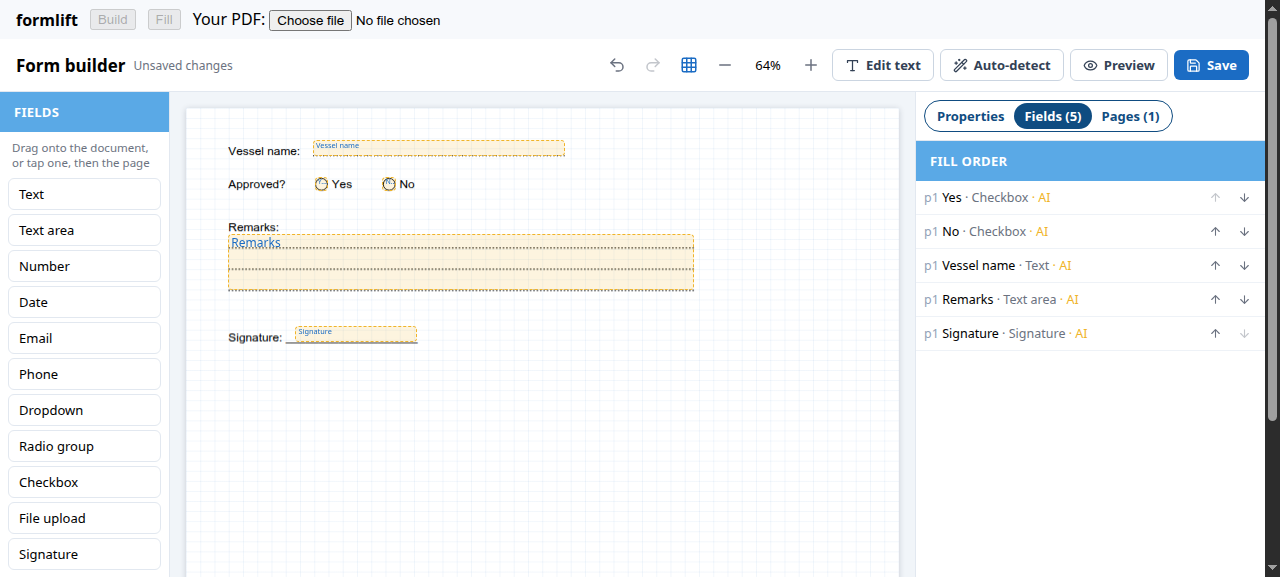
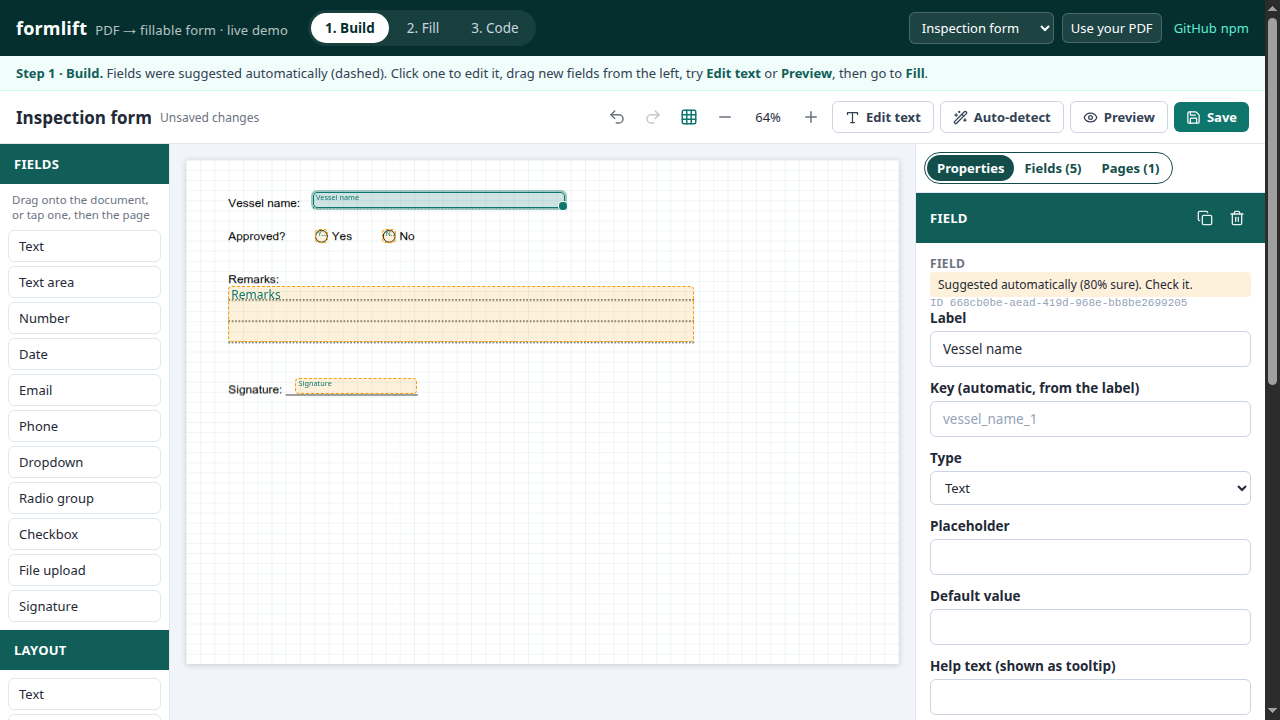
Teal theme, Trusted Publishing release, legacy TS types

diff --git a/example/demo.css b/example/demo.css
@@ -2,26 +2,26 @@
 html, body, #root { height: 100%; margin: 0; }
 body { font-family: system-ui, -apple-system, 'Segoe UI', Roboto, sans-serif; color: #1f2937; background: #f7f9fc; }
 .app { height: 100%; display: flex; flex-direction: column; }
-.bar { display: flex; flex-wrap: wrap; align-items: center; gap: 12px 20px; padding: 10px 16px; background: #0f2540; color: #fff; }
+.bar { display: flex; flex-wrap: wrap; align-items: center; gap: 12px 20px; padding: 10px 16px; background: #042f2e; color: #fff; }
 .brand { font-weight: 700; font-size: 18px; letter-spacing: .01em; }
 .brand small { font-weight: 400; opacity: .7; margin-left: 8px; font-size: 13px; }
 .steps { display: flex; gap: 4px; background: rgba(255,255,255,.08); padding: 3px; border-radius: 999px; }
 .steps button { border: 0; background: none; color: #cbd5e1; padding: 6px 14px; border-radius: 999px; font: inherit; font-size: 13.5px; cursor: pointer; }
-.steps button[aria-selected='true'] { background: #fff; color: #0f2540; font-weight: 600; }
+.steps button[aria-selected='true'] { background: #fff; color: #042f2e; font-weight: 600; }
 .steps button:disabled { opacity: .4; cursor: not-allowed; }
 .pick { display: flex; align-items: center; gap: 8px; font-size: 13px; margin-left: auto; }
 .pick select, .pick label { background: rgba(255,255,255,.1); color: #fff; border: 1px solid rgba(255,255,255,.2); border-radius: 6px; padding: 5px 8px; font: inherit; cursor: pointer; }
 .pick select option { color: #1f2937; }
 .pick input { display: none; }
-.links a { color: #93c5fd; font-size: 13px; margin-left: 4px; text-decoration: none; }
-.hint { margin: 0; padding: 8px 16px; font-size: 13px; background: #eef5fd; color: #334155; border-bottom: 1px solid #dbe6f3; }
-.hint b { color: #0f4c81; }
+.links a { color: #5eead4; font-size: 13px; margin-left: 14px; text-decoration: none; }
+.hint { margin: 0; padding: 8px 16px; font-size: 13px; background: #f0fdfa; color: #334155; border-bottom: 1px solid #ccfbf1; }
+.hint b { color: #115e59; }
 .main { flex: 1; min-height: 0; }
 .code { height: 100%; overflow: auto; padding: 20px; display: grid; gap: 20px; grid-template-columns: repeat(auto-fit, minmax(380px, 1fr)); align-content: start; }
 .card { background: #fff; border: 1px solid #e2e8f0; border-radius: 10px; overflow: hidden; min-width: 0; }
 .card h3 { margin: 0; padding: 10px 14px; font-size: 13px; background: #f1f5f9; border-bottom: 1px solid #e2e8f0; display: flex; justify-content: space-between; gap: 8px; }
 .card h3 span { font-weight: 400; color: #6b7280; }
 .card pre { margin: 0; padding: 14px; font-size: 12px; line-height: 1.5; overflow: auto; max-height: 460px; background: #0b1220; color: #e2e8f0; }
-.btn { border: 1px solid #1b6cc4; background: #1b6cc4; color: #fff; border-radius: 6px; padding: 6px 12px; font: inherit; font-size: 13px; cursor: pointer; }
-.btn.ghost { background: #fff; color: #1b6cc4; }
+.btn { border: 1px solid #0f766e; background: #0f766e; color: #fff; border-radius: 6px; padding: 6px 12px; font: inherit; font-size: 13px; cursor: pointer; }
+.btn.ghost { background: #fff; color: #0f766e; }
 @media (max-width: 640px) { .pick { margin-left: 0; } .links { display: none; } .code { padding: 12px; grid-template-columns: 1fr; } .brand small { display: none; } }

diff --git a/src/style.css b/src/style.css
@@ -37,17 +37,17 @@
 @layer base {
   .fl-root {
     --fl-font: system-ui, -apple-system, 'Segoe UI', Roboto, Arial, sans-serif;
-    --fl-primary: #1b6cc4;
-    --fl-primary-hover: #155aa6;
-    --fl-primary-soft: #eef5fd;
-    --fl-primary-tint: #eaf2fb;
-    --fl-brand: #0f4c81;
-    --fl-brand-hover: #0c3d68;
+    --fl-primary: #0f766e;
+    --fl-primary-hover: #115e59;
+    --fl-primary-soft: #f0fdfa;
+    --fl-primary-tint: #ccfbf1;
+    --fl-brand: #134e4a;
+    --fl-brand-hover: #042f2e;
     --fl-success: #22a06b;
     --fl-success-hover: #1c8b5b;
     --fl-danger: #dc3545;
-    --fl-heading: #5aa9e6;
-    --fl-heading-hover: #4a99d6;
+    --fl-heading: #115e59;
+    --fl-heading-hover: #134e4a;
     --fl-ink: #1f2937;
     --fl-ink-2: #334155;
     --fl-ink-3: #475569;
@@ -58,7 +58,7 @@
     --fl-line-soft: #eef2f7;
     --fl-hover: #f1f5f9;
     --fl-surface: #f8fafc;
-    --fl-accent: #f0b429; /* suggested (auto-detected) fields, Edit text */
+    --fl-accent: #f59e0b; /* suggested (auto-detected) fields, Edit text */
     font-family: var(--fl-font);
     box-sizing: border-box;
   }

diff --git a/src/react/FormEditor.tsx b/src/react/FormEditor.tsx
@@ -679,7 +679,7 @@ export default function FormEditor({
                   snapOn && !preview
                     ? {
                         backgroundImage:
-                          'linear-gradient(to right, rgb(27 108 196 / 0.06) 1px, transparent 1px), linear-gradient(to bottom, rgb(27 108 196 / 0.06) 1px, transparent 1px)',
+                          'linear-gradient(to right, color-mix(in srgb, var(--fl-primary) 7%, transparent) 1px, transparent 1px), linear-gradient(to bottom, color-mix(in srgb, var(--fl-primary) 7%, transparent) 1px, transparent 1px)',
                         backgroundSize: '2% 2%',
                       }
                     : undefined

diff --git a/src/server/completed-pdf.ts b/src/server/completed-pdf.ts
@@ -243,7 +243,7 @@ export async function completedPdf(
       y: multiline ? top - size - 1 : top - h / 2 - size * 0.35,
       size,
       font,
-      color: rgb(0.05, 0.15, 0.45),
+      color: rgb(0.075, 0.306, 0.29),
       ...(multiline ? { maxWidth: w - 4, lineHeight: size * 1.2 } : {}),
     });
   }

diff --git a/src/react/ui/SignaturePad.tsx b/src/react/ui/SignaturePad.tsx
@@ -31,7 +31,7 @@ export default function SignaturePad({
     const p = point(e)
     ctx.lineWidth = 3
     ctx.lineCap = 'round'
-    ctx.strokeStyle = '#0f2540'
+    ctx.strokeStyle = '#111827'
     ctx.beginPath()
     ctx.moveTo(last.current.x, last.current.y)
     ctx.lineTo(p.x, p.y)

diff --git a/README.md b/README.md
@@ -6,10 +6,10 @@
 
 Auto-detect fields · Drag-and-drop builder · Conditional logic · Validation · Fill-in UI · Completed PDF
 
-[![npm version](https://img.shields.io/npm/v/formlift?color=1b6cc4&label=npm)](https://www.npmjs.com/package/formlift)
-[![npm downloads](https://img.shields.io/npm/dm/formlift?color=1b6cc4)](https://www.npmjs.com/package/formlift)
-[![types](https://img.shields.io/npm/types/formlift?color=1b6cc4)](https://www.npmjs.com/package/formlift)
-[![license](https://img.shields.io/npm/l/formlift?color=1b6cc4)](./LICENSE)
+[![npm version](https://img.shields.io/npm/v/formlift?color=0f766e&label=npm)](https://www.npmjs.com/package/formlift)
+[![npm downloads](https://img.shields.io/npm/dm/formlift?color=0f766e)](https://www.npmjs.com/package/formlift)
+[![types](https://img.shields.io/npm/types/formlift?color=0f766e)](https://www.npmjs.com/package/formlift)
+[![license](https://img.shields.io/npm/l/formlift?color=0f766e)](./LICENSE)
 [![CI](https://github.com/harendra-singh-negi/formlift/actions/workflows/ci.yml/badge.svg)](https://github.com/harendra-singh-negi/formlift/actions/workflows/ci.yml)
 
 **[▶ Live demo](https://harendra-singh-negi.github.io/formlift/)** · [Quick start](#quick-start) · [API](#api-reference) · [Server](#server-side) · [Theming](#theming) · [FAQ](#faq)

diff --git a/CONTRIBUTING.md b/CONTRIBUTING.md
@@ -66,7 +66,8 @@ Short and in the imperative mood, for example: `Detect checkboxes drawn as curve
 ## Releasing (maintainer)
 
 1. Update `version` in `package.json` and move the "Unreleased" notes in `CHANGELOG.md` to the new version.
-2. Commit, then create a GitHub release with the tag `vX.Y.Z`. The Release workflow publishes it to npm.
+2. Commit, then create a GitHub release with the tag `vX.Y.Z`. The Release workflow publishes it to npm through
+   Trusted Publishing (no token).
 
 ## License
 
